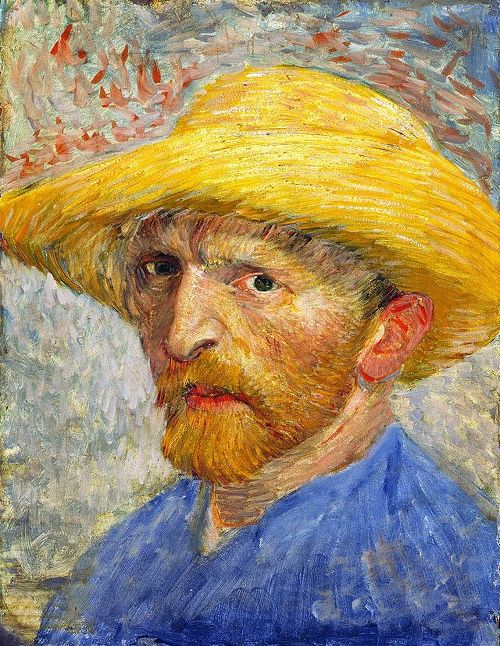
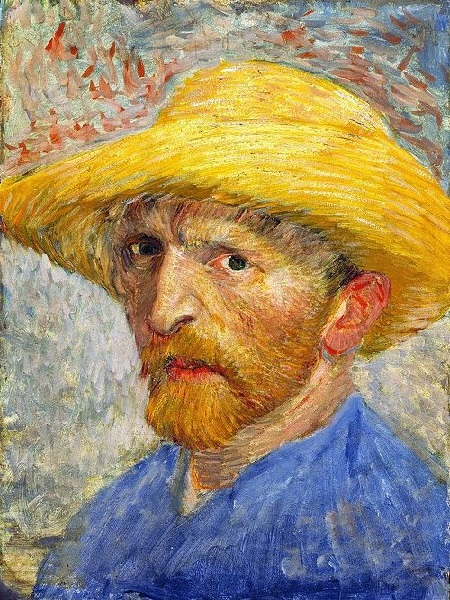
Modified to responsive web

diff --git a/src/page/Preview.js b/src/page/Preview.js
@@ -23,7 +23,7 @@ const Preview =  ({ match }) => {
           <h3>
             바뀌고 싶은 얼굴을 선택하세요!
           </h3>
-            <div className='ImageBox'>
+            <div className='ImageBox' style={{margin: '3%'}}>
               <div className='InputBox'>  
                   <img className='SelectImg' src={ pic[num]} alt="select img"></img>
               </div>
@@ -32,7 +32,7 @@ const Preview =  ({ match }) => {
               </div>
                 <div className='InputBox'> 
                   <img className='SelectImg' src={ pic[num]} alt="select img"></img>
-                   <video />
+                   {/* <video /> */}
                 </div>
             </div>
             <div>

diff --git a/src/page/Selection.js b/src/page/Selection.js
@@ -29,7 +29,7 @@ const Selection =() => {
                 <button className='SelectButton' onClick={ ()=> { m_num(2)}}> 3</button>
                 <button className='SelectButton' onClick={ ()=> { m_num(3)}}> 4</button>
               </div>
-                <div className='InputBox'> 
+                <div className='InputBox' style={ {marginright: '10%' } }> 
                   <img className='SelectImg' src={ pic[num]} alt="select img"></img>
                 </div>
             </div>

diff --git a/src/page/css/Page.css b/src/page/css/Page.css
@@ -26,8 +26,10 @@
 }
 
 .Plus-logo {
-  height: 20%;
-  width: 20%;
+  text-align: center;
+  align-items: center;
+  height: 30%;
+  width: 30%;
 }
 
 .Page-header {
@@ -67,14 +69,14 @@
   background-color: #c4c4c4;
   border-radius: 10px;
   display: inline-block;
-  width: 450px;
-  height: 600px;
+  width: 100%;
+  height: 100%;
   padding: 10px;
 }
 
 .SelectImg {
-  width: 450px;
-  height: 600px;
+  width: 100%;
+  height: 100%;
   object-fit: contain;
 }
 
